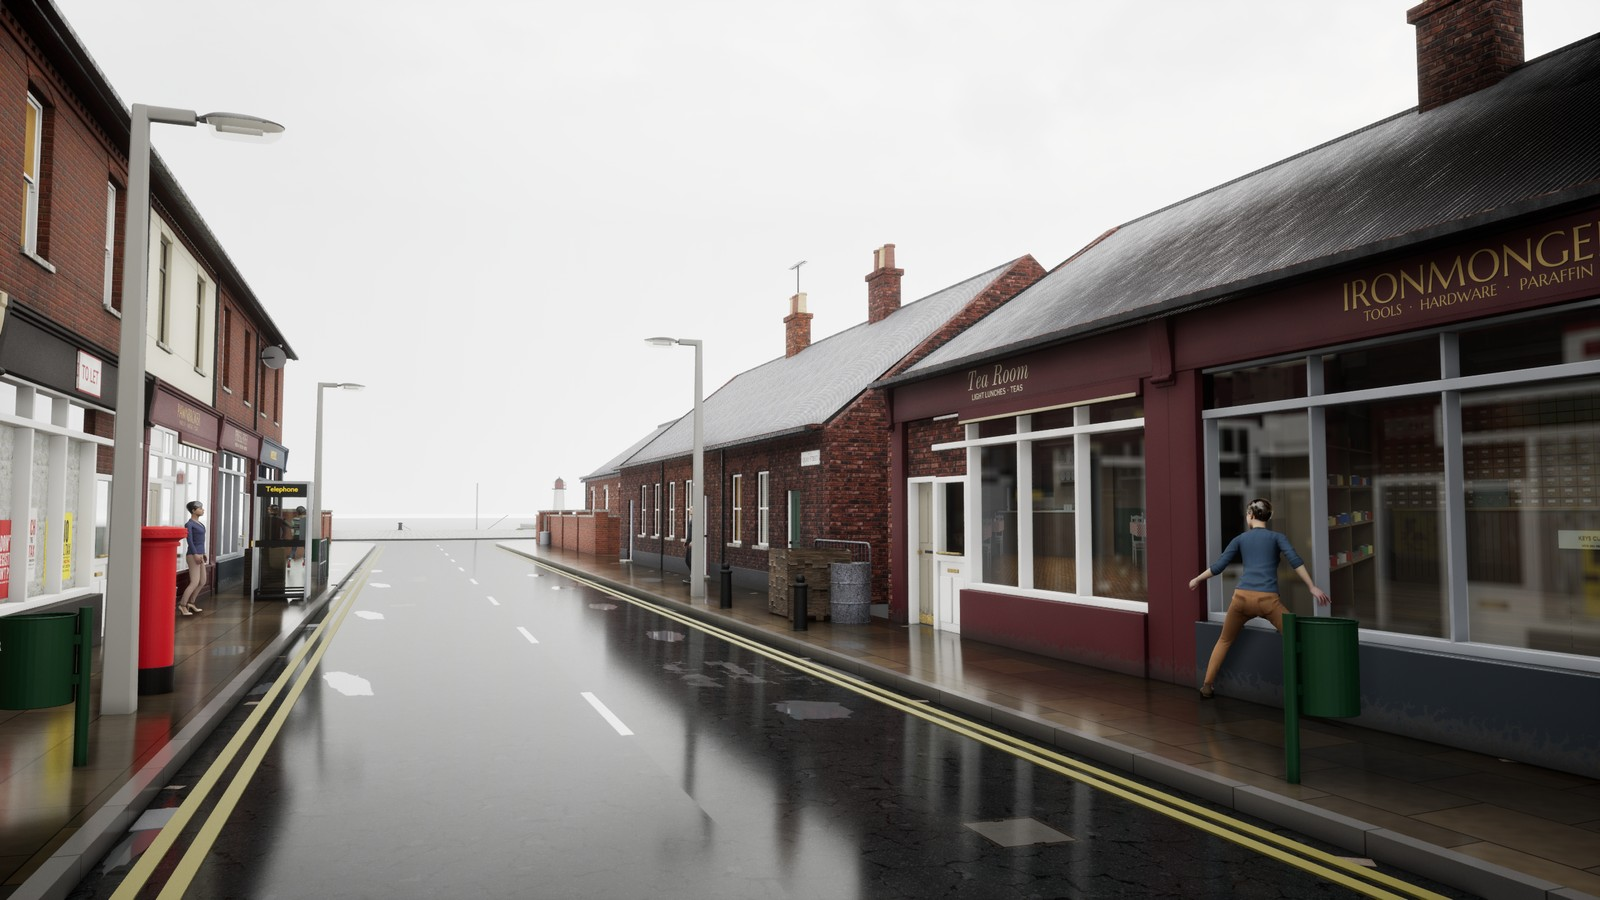
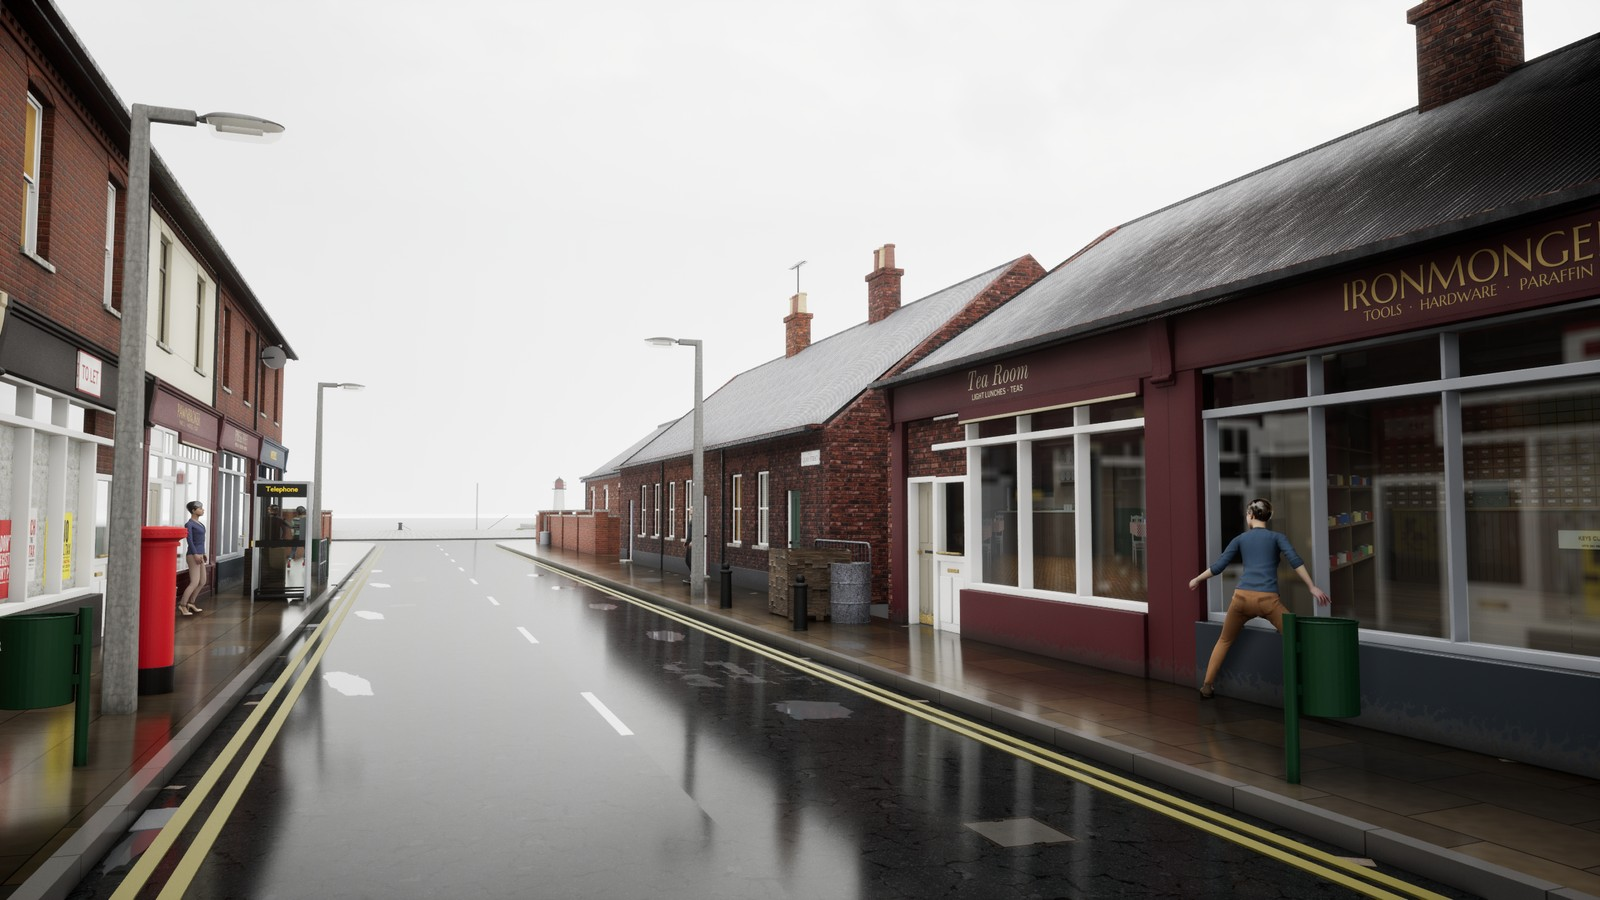
Lamp post C passes its gate in three views; its page drafted; the kit folder attributed
Round 3 of the gate passed by day, in the reverse view and at night (one fresh reviewer each,
production/audits/gate-lamp-post-C/GATE.md). The kit's Unreal folder is listed against the
ambientCG photographs its detail maps come from; the page's full-size pictures stay out of git.

Changed region(s): [[0.0625, 0.1244, 0.0938, 0.8089], [0.4062, 0.5289, 0.4375, 0.6533]]

diff --git a/tools/attribution-check.py b/tools/attribution-check.py
@@ -69,6 +69,10 @@ WATCHED = {
     "ue-probe/Content/Ledger/Figure": "Mixamo",
     "ue-probe/Content/Ledger/People": "Mixamo",
     "ue-probe/Content/Ledger/Props": "The Base Mesh",
+    # THE KIT'S MATERIALS (21 October 2026): this project's own master materials and instances
+    # (tools/ue/make_kit_materials.py) and four detail maps high-passed from the street's CC0
+    # ambientCG photographs (tools/props/make_kit_detail.py; ledger/Assets/StreamingAssets/CityPack).
+    "ue-probe/Content/Ledger/Kit": "ambientCG",
     "ue-probe/Content/Ledger/ShopDisplays": "Poly Haven",
     "ue-probe/Content/Ledger/ShopRooms": "Poly Haven",
     "ue-probe/Content/Ledger/Sounds": ("VCTK", "sturmankin"),
@@ -310,6 +314,7 @@ OURS = {
     "production/audio/ui": "the interface's sounds, synthesised by tools/ui/make_ui_sounds.py, 1 October",
     # 2 October's page: the pawnbroker's window filmed by the game in its own street (-PageShots).
     "production/approvals/2026-10-02": "the game filming its own street and cast for the day's page, 2 October",
+    "production/approvals/2026-10-21-lamp": "the game filming its own street with lamp post C for his page, 21 October (out of git)",
     # The clothing page of 2 October: Ron in the clothing session's own jacket, filmed by the game in its own street
     # (the builder's in-game test), a MetaHuman built on this PC (renders may be shown; its files stay out of here).
     "production/approvals/2026-10-02-clothes": "the game filming Ron in the clothing session's own jacket, 2 October",

diff --git a/production/audits/gate-lamp-post-C/GATE.md b/production/audits/gate-lamp-post-C/GATE.md
@@ -19,3 +19,11 @@ The game's own vignette camera, 2560 x 1440, three views, one fresh reviewer (Op
 ## The fix for round 3
 
 The kit's master material, the order's next step: world-aligned detail from the street's own concrete photograph, a dirt band at the foot, and the concrete's starting colour moved to the dark end of aged concrete (production/research/aaa-street/KIT-MATERIALS-2026-10-21.md; production/specs/kit-materials.json). All three views are reviewed again after it, since the material shows in each.
+
+## Round 3, 13:48: PASSED, all three views
+
+- Hook by day: PASS. The concrete shows a mottled photographic texture and reads as concrete; the bowl does not glow by day (about 200 against the window frames' 200 to 222); no clipping (pillar box 1 m nearer at x 27, the column at x 28; the bins clear).
+- Reverse by day: PASS. Matt, mottled concrete, not plastic.
+- Night: PASS. Watch point: the near east column's road face burns to flat pale yellow 3 to 4 m up, under its own lamp.
+- Known shortfalls, listed: the dirt at the foot barely shows (about 10 per cent darker); no rain streaks or rust runs from the spigot; the bowl reads opal white, not yellowed; the number plate blank; the arm a crisp right angle; the Hook sheet shows no lamp column, and the near one is now a pale vertical between Fresh Fish and Mickey's. The scene's older gaps (no parked cars, white puddles, a flat hill) are unchanged.
+- These views are now the lamp's last good pictures (F:/LedgerTools/gate/last-good/lamp-post-C). Packaged and walked: owed to the next build machine run.
